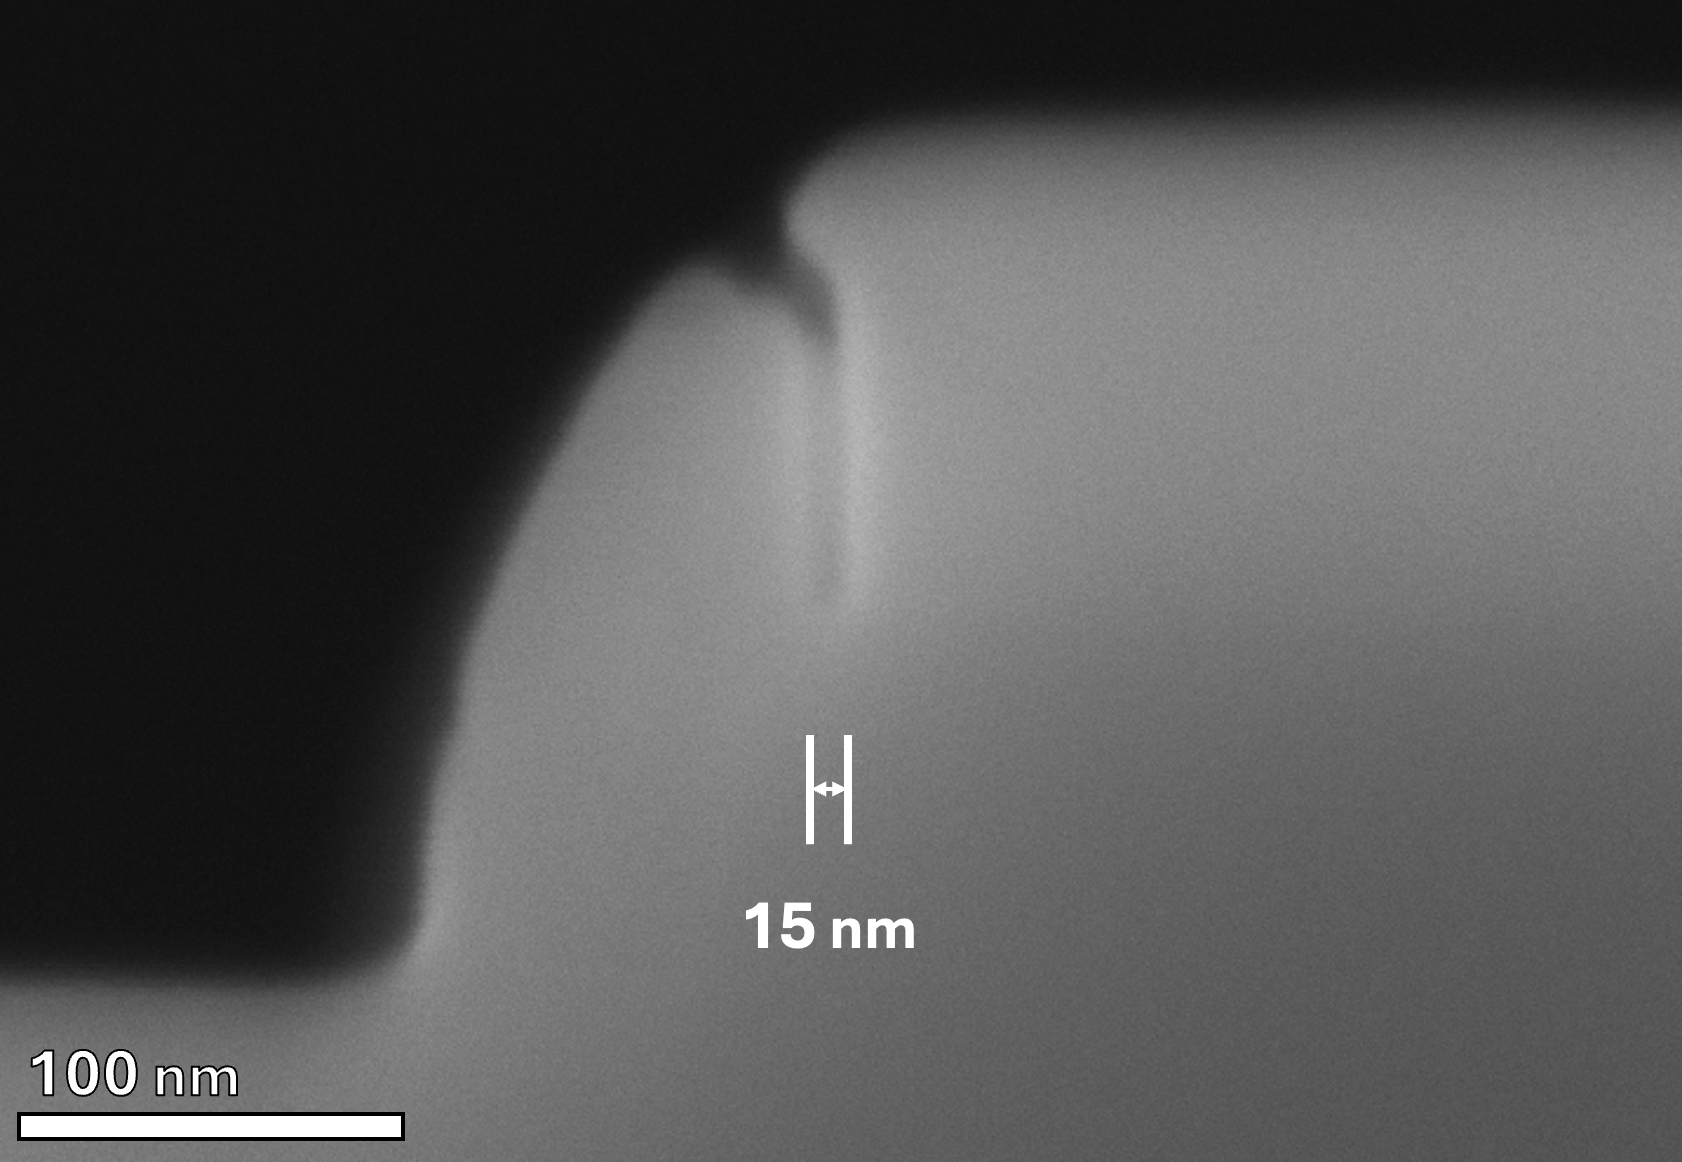
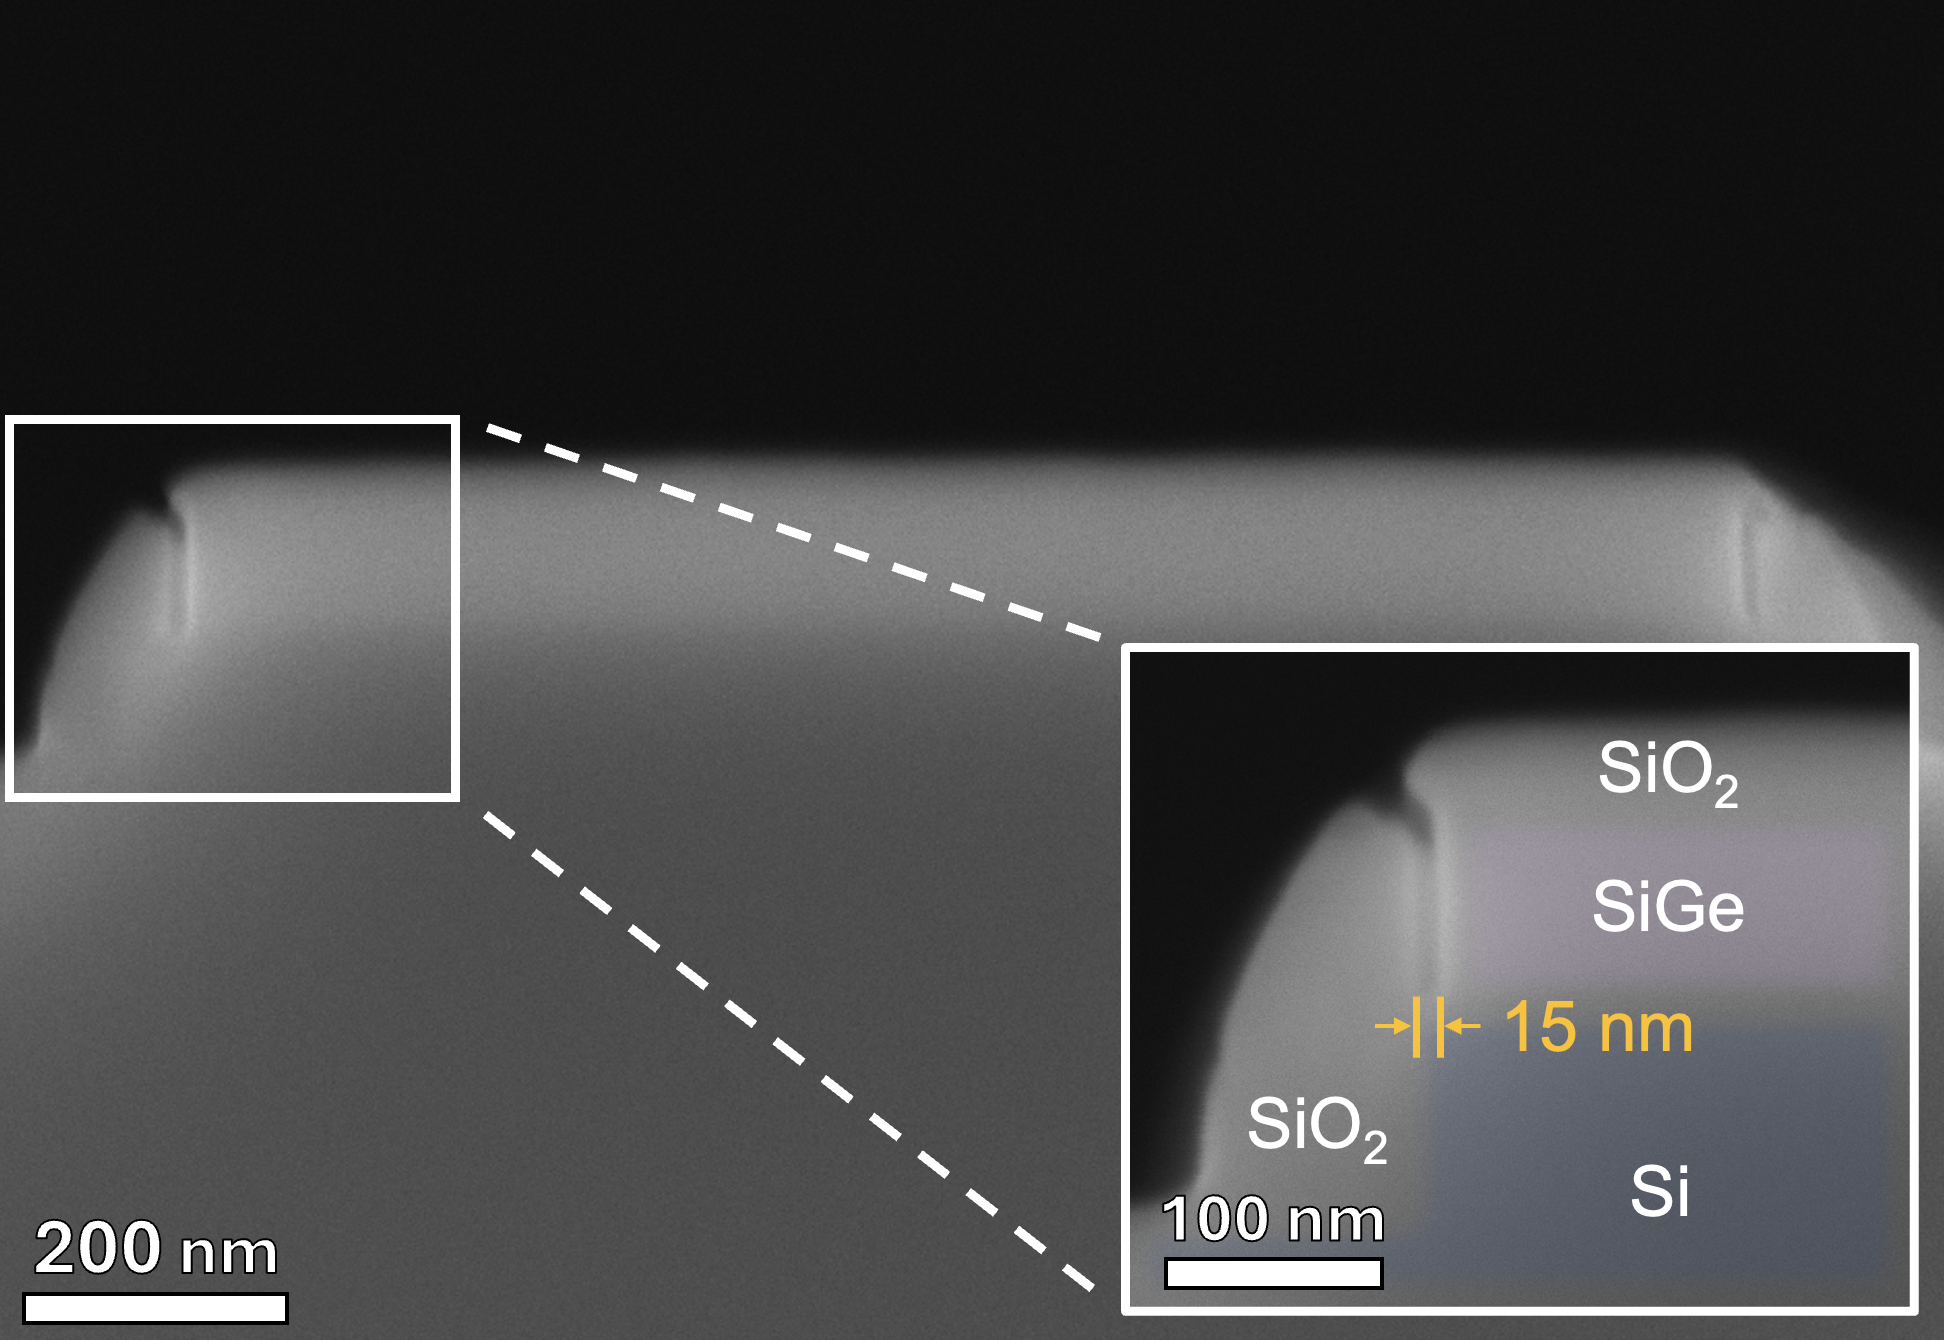
Updated running timeline

diff --git a/running.js b/running.js
@@ -102,7 +102,7 @@ document.addEventListener('DOMContentLoaded', () => {
         
         // Desktop hover events
         history.addEventListener('mouseenter', showPopup);
-        history.addEventListener('mouseleave', hidePopup);
+        history.addEventListener('mouseleave', scheduleHide);
         
         // Focus/blur for keyboard navigation
         history.addEventListener('focus', showPopup);
@@ -521,9 +521,7 @@ document.addEventListener('DOMContentLoaded', () => {
             const minHeight = Math.max(320, Math.round(window.innerHeight * 0.6));
             timeline.style.minHeight = `${minHeight}px`;
 
-            // Force multiple reflows to ensure layout is complete
-            void timeline.offsetHeight;
-            void timeline.getBoundingClientRect();
+            // Force reflow to ensure minHeight is applied before measuring
             void timeline.offsetHeight;
 
             // recompute rects after ensuring height
@@ -531,12 +529,15 @@ document.addEventListener('DOMContentLoaded', () => {
             const timelineRectV = timeline.getBoundingClientRect();
 
             const lineTop = lineRectV.top - timelineRectV.top;
-            let lineHeight = lineRectV.height;
+            const lineHeight = lineRectV.height;
             
-            // If lineHeight is still 0, use a sensible fallback based on timeline height
-            if (lineHeight === 0 || lineHeight < 10) {
-                lineHeight = timelineRectV.height - 40; // Account for padding
-            }
+            // Position the "Now" marker along the vertical line
+            const nowFrac = span > 0 ? (now.getTime() - minDate.getTime()) / span : 0;
+            const nowTop = lineTop + (Math.max(0, Math.min(1, nowFrac)) * lineHeight);
+            timelineNow.style.position = 'absolute';
+            timelineNow.style.left = '50%';
+            timelineNow.style.top = `${nowTop}px`;
+            timelineNow.style.transform = 'translate(-50%, -50%)';
             
             // Position each event absolutely along the vertical line, alternating left/right
             items.forEach((itemObj, index) => {

diff --git a/running.html b/running.html
@@ -83,6 +83,14 @@
                         <div class="race-distance">13.1 mi</div>
                     </a>
                 </div>
+                <div class="timeline-item left above future" data-date="2026-07-26">
+                    <a href="https://www.thesfmarathon.com/full-marathon/" class="timeline-card" target="_blank" rel="noopener noreferrer">
+                        <div class="race-name">San Francisco Marathon</div>
+                        <div class="race-date">Jul 26, 2026</div>
+                        <div class="race-goal">Goal: 3:50:xx</div>
+                        <div class="race-distance">26.2 mi</div>
+                    </a>
+                </div>
 
                 <!-- <div class="timeline-item right below future" data-date="2026-06-14">
                     <a href="https://runsignup.com/Race/RI/Newport/NewportSprintTriathlon" class="timeline-card" target="_blank" rel="noopener noreferrer">

diff --git a/running.css b/running.css
@@ -1337,11 +1337,8 @@ body {
 }
 
 @media (max-width: 1024px) {
-    /* On mobile, marker stays fixed at center of timeline via CSS only - no JS positioning */
+    /* On mobile, marker is positioned by JS along the vertical timeline */
     .timeline-now {
-        left: 50% !important;
-        top: 50% !important;
-        transform: translate(-50%, -50%) !important;
         flex-direction: column;
     }
     
